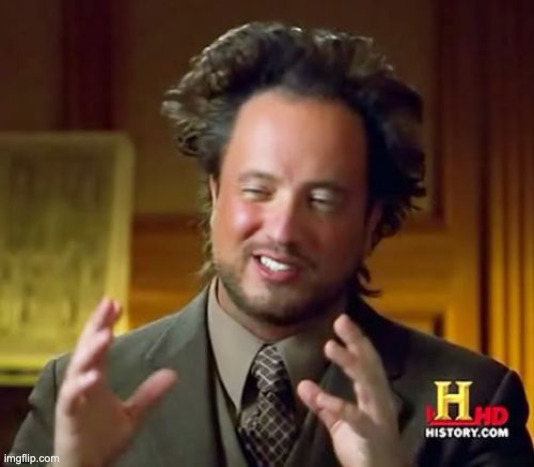
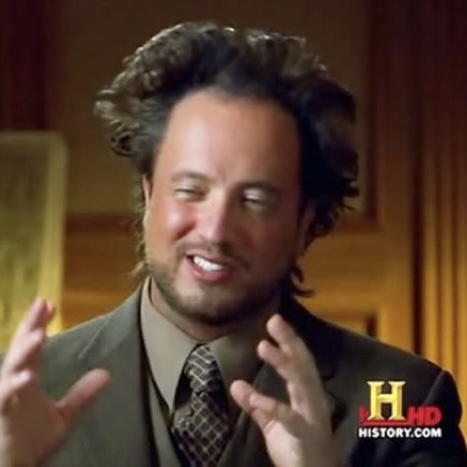
resize of some images, loading spinner added, fixed some styles

diff --git a/client/src/components/GamePage.jsx b/client/src/components/GamePage.jsx
@@ -6,6 +6,7 @@ import { CaptionList } from "./CaptionList";
 import { GameOver } from "./GameOver";
 import { postGame } from "../API";
 import PropType from "prop-types";
+import { LoadingSpinner } from "./LoadingSpinner";
 
 export const GamePage = ({ isLoggedIn }) => {
   const [currentMeme, setCurrentMeme] = useState(null);
@@ -19,6 +20,7 @@ export const GamePage = ({ isLoggedIn }) => {
   const [savedRounds, setSavedRounds] = useState([]);
   const [show, setShow] = useState(false);
   const [feedback, setFeedback] = useState("");
+  const [isLoading, setIsLoading] = useState(false);
   const initialRender = useRef(true); // to prevent two fetches on first render
   // useRef instead of useState because we don't want to re-render when it changes
 
@@ -33,6 +35,7 @@ export const GamePage = ({ isLoggedIn }) => {
       fetchMeme = () => {
         getRandomMeme(currentMeme ? [currentMeme] : undefined).then((meme) => {
           setCurrentMeme(meme);
+          setIsLoading(false);
         });
       };
     } else {
@@ -42,10 +45,12 @@ export const GamePage = ({ isLoggedIn }) => {
           setMemes((prevMemes) => [...prevMemes, meme]);
           setStopTimer(false);
           setShowCorrectCaptions(false);
+          setIsLoading(false);
         });
       };
     }
     if (!gameOver) {
+      setIsLoading(true);
       console.log("fetching meme");
       fetchMeme();
     }
@@ -94,9 +99,7 @@ export const GamePage = ({ isLoggedIn }) => {
     }
   };
 
-  // TO DO change last image of one game to first image of next game
-  // TO DO take a look at game 35 to fix images sizes
-  // TO DO add a loading spinner
+  // TODO change last image of one game to first image of next game
 
   const closeGameOver = () => {
     setShow(false);
@@ -139,51 +142,50 @@ export const GamePage = ({ isLoggedIn }) => {
 
   return (
     <>
-      <Container fluid className="mt-2">
-        {currentMeme && (
-          <>
-            <Row className="w-100 mb-5">
-              <Col className="col-4 d-flex justify-content-center align-items-center">
-                <div>
-                  <Timer stopTimer={stopTimer} getTime={getElapsedTime} />
-                </div>
-              </Col>
-              <Col className="col-4 d-flex justify-content-center align-items-center">
-                <div className="d-flex flex-column justify-content-center align-items-center">
-                  <h3>
-                    Round: {round}/{isLoggedIn ? 3 : 1}
-                  </h3>
-                  <Image
-                    className="img-custom"
-                    src={`/meme/${currentMeme.filename}`}
-                  />
-                </div>
-              </Col>
-              <Col className="col-4 d-flex flex-column justify-content-center align-items-center position-relative">
-                <div className="d-flex align-items-center">
-                  <i className="bi bi-trophy-fill h1 text-warning me-2"></i>
-                  <h1>Score: {score}</h1>
-                </div>
-                <Alert
-                  show={show}
-                  onClose={() => setShow(false)}
-                  variant={feedback === "Correct answer!" ? "success" : "danger"}
-                  className="mt-3 position-absolute w-100"
-                  style={{ top: "70%" }}
-                >
-                  {feedback}
-                </Alert>
-              </Col>
-            </Row>
-            <CaptionList
-              captions={currentMeme.captions}
-              handleAnswer={handleAnswer}
-              showCorrect={showCorrectCaptions}
-              key={round}
-            />
-          </>
-        )}
-      </Container>
+      {isLoading && <LoadingSpinner />}
+      {!isLoading && currentMeme && (
+        <Container fluid className="mt-2">
+          <Row className="w-100 mb-5">
+            <Col className="col-4 d-flex justify-content-center align-items-center">
+              <div>
+                <Timer stopTimer={stopTimer} getTime={getElapsedTime} />
+              </div>
+            </Col>
+            <Col className="col-4 d-flex justify-content-center align-items-center">
+              <div className="d-flex flex-column justify-content-center align-items-center">
+                <h3>
+                  Round: {round}/{isLoggedIn ? 3 : 1}
+                </h3>
+                <Image
+                  className="img-custom"
+                  src={`/meme/${currentMeme.filename}`}
+                />
+              </div>
+            </Col>
+            <Col className="col-4 d-flex flex-column justify-content-center align-items-center position-relative">
+              <div className="d-flex align-items-center">
+                <i className="bi bi-trophy-fill h1 text-warning me-2"></i>
+                <h1>Score: {score}</h1>
+              </div>
+              <Alert
+                show={show}
+                onClose={() => setShow(false)}
+                variant={feedback === "Correct answer!" ? "success" : "danger"}
+                className="mt-3 position-absolute w-100"
+                style={{ top: "70%" }}
+              >
+                {feedback}
+              </Alert>
+            </Col>
+          </Row>
+          <CaptionList
+            captions={currentMeme.captions}
+            handleAnswer={handleAnswer}
+            showCorrect={showCorrectCaptions}
+            key={round}
+          />
+        </Container>
+      )}
       {gameOver && (
         <div className="overlay">
           <GameOver
@@ -191,6 +193,7 @@ export const GamePage = ({ isLoggedIn }) => {
             score={score}
             time={time}
             closeGameOver={closeGameOver}
+            isLoggedIn={isLoggedIn}
           />
         </div>
       )}

diff --git a/client/src/components/GameOver.jsx b/client/src/components/GameOver.jsx
@@ -2,46 +2,58 @@ import PropTypes from "prop-types";
 import { CtaButton } from "./CtaButton";
 import { Row, Col, Image, Container } from "react-bootstrap";
 import { useNavigate } from "react-router-dom";
+import { useEffect } from "react";
 
-export const GameOver = ({ rounds, score, time, closeGameOver }) => {
-  const getCaptionColor = (round) => {
-    if (round.caption !== "Not answered") {
-      if (round.points) {
-        return "text-success";
-      } else {
-        return "text-danger";
-      }
+export const GameOver = ({
+  rounds,
+  score,
+  time,
+  closeGameOver,
+  isLoggedIn,
+}) => {
+  useEffect(() => {
+    // prevent scrolling on game over
+    if (typeof window !== "undefined" && window.document) {
+      document.body.style.overflow = "hidden";
     }
-    return "";
-  };
+  }, []);
 
   const navigate = useNavigate();
 
   return (
-    <div className="d-flex flex-column justify-content-center align-items-center vh-100">
+    <div className="d-flex">
       <Container className="game-over-container">
         <h1 className="text-center">Game Over</h1>
-        <Row className="justify-content-center ms-2 me-2">
-          {rounds.map((round, index) => (
-            <Col
-              key={index}
-              className="d-flex flex-column align-items-center"
-            >
-              <h4 className="text-center">Round {round.round_number}</h4>
-              <div className="game-over-img-container text-center">
-                <Image
-                  className="game-over-img mt-4"
-                  src={`/meme/${round.imageId}.jpg`}
-                />
-                <p className={`mt-3 ${getCaptionColor(round)}`}>
-                  {round.caption}
-                </p>
-              </div>
-              <p className="mt-2 text-center">Points: {round.points}</p>
-            </Col>
-          ))}
-        </Row>
-        <Row>
+        {isLoggedIn && (
+          <>
+            {rounds.filter((round) => round.points === 5).length > 0 && (
+              <h3 className="text-center">Correct memes:</h3>
+            )}
+            <Row className="justify-content-center ms-2 me-2">
+              {rounds.map(
+                (round, index) =>
+                  round.points === 5 && (
+                    <Col
+                      key={index}
+                      className="d-flex flex-column align-items-center"
+                    >
+                      <h4 className="text-center">
+                        Round {round.round_number}
+                      </h4>
+                      <div className="game-over-img-container text-center">
+                        <Image
+                          className="game-over-img mt-4"
+                          src={`/meme/${round.imageId}.jpg`}
+                        />
+                        <p className={"mt-3 text-success"}>{round.caption}</p>
+                      </div>
+                    </Col>
+                  )
+              )}
+            </Row>
+          </>
+        )}
+        <Row className="mt-4">
           <Col>
             <h4 className="text-center">Total points: {score}</h4>
           </Col>
@@ -67,4 +79,5 @@ GameOver.propTypes = {
   score: PropTypes.number.isRequired,
   time: PropTypes.number.isRequired,
   closeGameOver: PropTypes.func.isRequired,
+  isLoggedIn: PropTypes.bool.isRequired,
 };

diff --git a/client/src/App.jsx b/client/src/App.jsx
@@ -12,25 +12,26 @@ import { login, getUserInfo, logout } from "./API";
 import { ProfilePage } from "./components/ProfilePage";
 import { GameSummaryPage } from "./components/GameSummaryPage";
 import { NotFoundPage } from "./components/NotFoundPage";
+import { LoadingSpinner } from "./components/LoadingSpinner";
 
 function App() {
   const [user, setUser] = useState(null);
   const [isLoggedIn, setIsLoggedIn] = useState(false);
-  const [loading, setLoading] = useState(true);
+  const [isLoading, setIsLoading] = useState(true);
 
   useEffect(() => {
     getUserInfo()
       .then((user) => {
         setUser(user);
         setIsLoggedIn(true);
-        setLoading(false);
+        setIsLoading(false);
       })
       .catch(() => {
         if (isLoggedIn)
-          // TO DO: Handle error
+          // TODO: Handle error
           setUser(null);
         setIsLoggedIn(false);
-        setLoading(false);
+        setIsLoading(false);
       });
   }, []);
 
@@ -46,11 +47,13 @@ function App() {
     setIsLoggedIn(false);
   };
 
+  // TODO: check time time for expiration and refresh token
+
   return (
     <div className="app-container">
       <NavBar isLoggedIn={isLoggedIn} logout={handleLogout} />
-      {loading ? (
-        <div>Loading...</div>
+      {isLoading ? (
+        <LoadingSpinner />
       ) : (
         <Routes>
           <Route path="/" element={<HomePage />} />
@@ -77,7 +80,6 @@ function App() {
             }
           />
           <Route path="*" element={<NotFoundPage />} />
-          {/* TO DO Add 404 page not found */}
         </Routes>
       )}
     </div>

diff --git a/client/src/App.css b/client/src/App.css
@@ -51,8 +51,6 @@ body {
   border-color: #000000 !important;
   border: 2px solid #000000 !important;
   box-shadow: 4px 4px #000000;
-  /* crop image as square */
-  object-fit: cover !important;
   width: 22vw !important;
   height: 22vw !important;
 }
@@ -174,7 +172,6 @@ body {
 }
 
 .game-over-container {
-  /* position: absolute; */
   background-color: #d7efee;
   border: 2px solid #343a40;
   border-radius: 10px;
@@ -206,6 +203,13 @@ body {
   border-radius: 9%;
   border: 2px solid #000000 !important;
   
+}
+
+/* spinner */
+.spinner-custom {
+  color: var(--secondary) !important;
+  width: 100px !important;
+  height: 100px !important;
 }
 
 /* countdown */

diff --git a/client/src/components/LoadingSpinner.jsx b/client/src/components/LoadingSpinner.jsx
@@ -1,0 +1,15 @@
+import { Spinner, Container, Row, Col } from "react-bootstrap";
+
+export const LoadingSpinner = () => {
+    return (
+        <Container fluid className="d-flex justify-content-center">
+            <Row>
+                <Col className="d-flex justify-content-center mt-5">
+                    <Spinner className="spinner-custom" animation="border" role="status">
+                        <span className="visually-hidden">Loading...</span>
+                    </Spinner>
+                </Col>
+            </Row>
+        </Container>
+    );
+}

diff --git a/client/src/components/ProfilePage.jsx b/client/src/components/ProfilePage.jsx
@@ -40,7 +40,6 @@ export const ProfilePage = ({ user }) => {
               Meme unlocked: {numberOfMemes.unlockedMemes}/
               {numberOfMemes.totalMemes}{" "}
             </h3>{" "}
-            {/* TODO: This is a placeholder for the meme unlock feature */}
           </Col>
           <h3 className="mb-3">Your games:</h3>
           {games.map((game, index) => (

diff --git a/client/src/components/Timer.jsx b/client/src/components/Timer.jsx
@@ -7,7 +7,7 @@ export const Timer = ({ stopTimer, getTime }) => {
   const [strokeColor, setStrokeColor] = useState("#28a745");
   const startTimeRef = useRef(Date.now());
 
-  // TO DO: counter added for handling the elapsed time
+  // TODO: counter added for handling the elapsed time
   useEffect(() => {
     if (stopTimer && counter > 0) {
       getTime(30-counter);

diff --git a/client/src/API.js b/client/src/API.js
@@ -16,7 +16,7 @@ const handleInvalidResponse =  (response) => {
 };
 
 // get random meme
-// TO DO Map response to Image object
+// TODO Map response to Image object
 export const getRandomMeme = async (images) => {
     if(!images){
         images = [];
